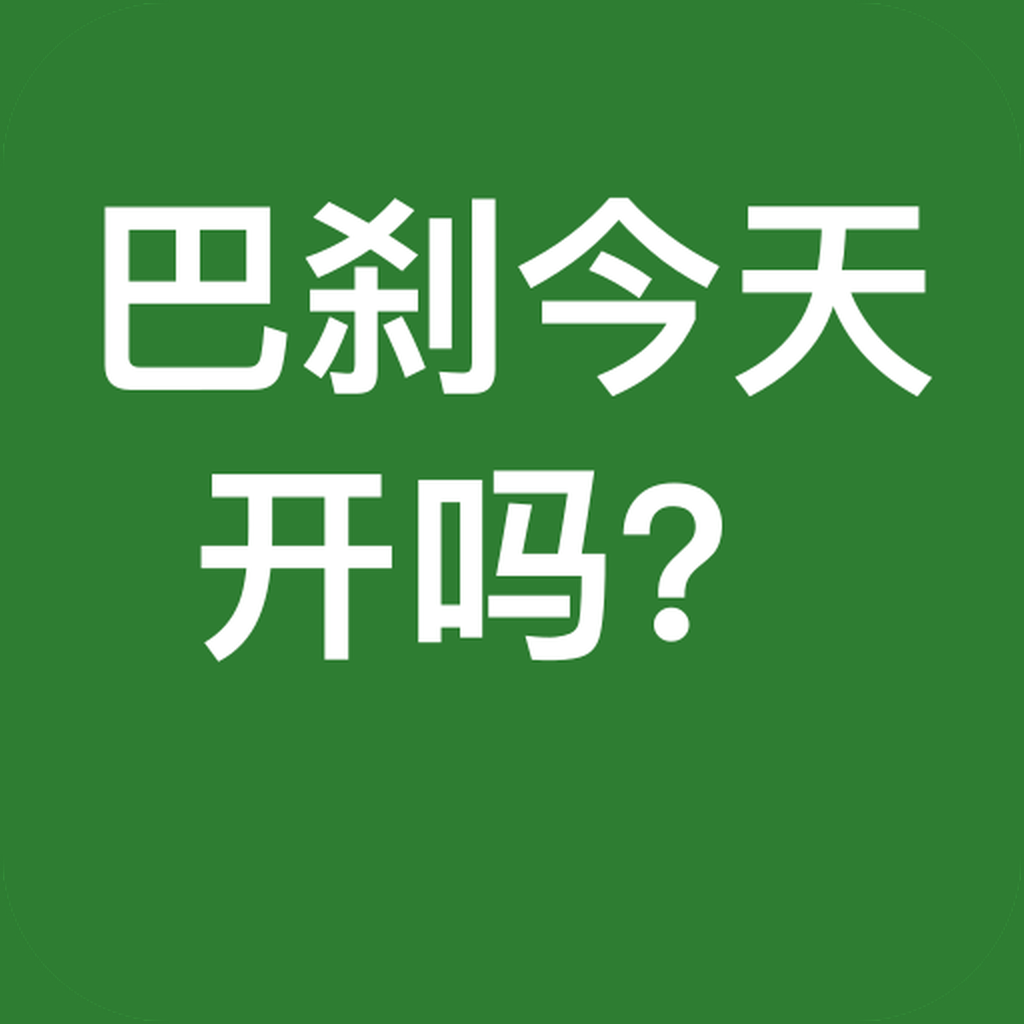
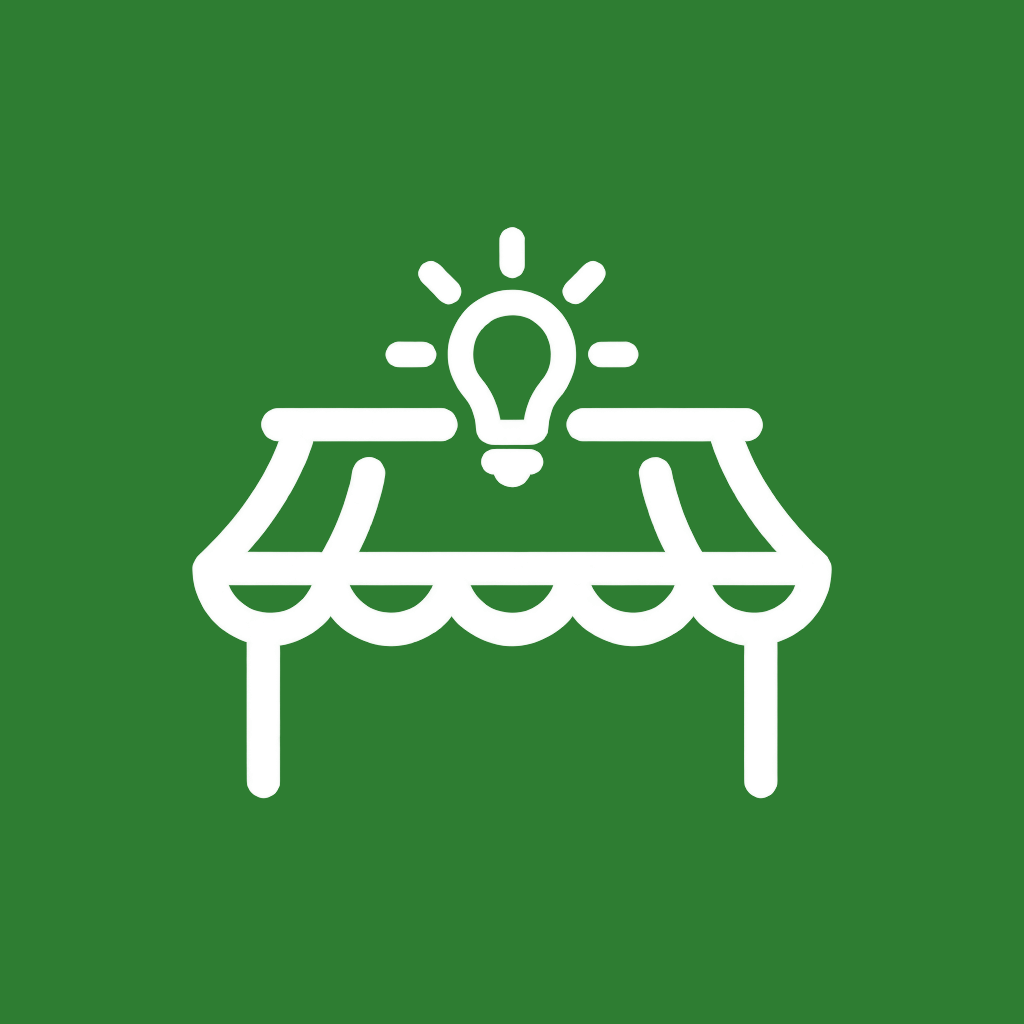
Replace the pre-rebrand wordmark with a market-stall mark
assets/icon.png was still 巴刹今天开吗？ — white Chinese type on green. Commit
fa2ae99 renamed the app to "Open Anot?" precisely because two thirds of the
sites are not markets, yet the icon still led with 巴刹 (pasar). It was also a
single-language wordmark in a bilingual app, illegible at icon size, and
full-bleed with square corners.

The new mark is a stall awning with a lit bulb above it. It reads as the place
rather than a product, which is what makes it cover cooked-food centres and wet
markets alike, and the bulb carries "open" in pure shape — so it survives
Android's themed-icon layer and iOS's tinted variant, both of which discard
colour.

Alongside the art, three things app.json supported but never used: the iOS
light/dark/tinted trio, adaptiveIcon.monochromeImage for Android 13+ themed
icons, and a dark splash background.

The native size sets stay generated. brand/ holds the approved master and the
script that derives every raster in assets/ from one extracted alpha matte;
expo prebuild fans those out to the mipmap densities and the iOS appiconset.

The notification glyph is the one asset drawn by hand rather than derived: at
24dp the line art turns to mush, and a solid bulb above a solid canopy fuses
into head-and-shoulders, so it is the awning alone.

Changed region(s): [[0.0938, 0.1875, 0.9062, 0.7812]]

diff --git a/app.config.ts b/app.config.ts
@@ -27,6 +27,8 @@ export default ({ config }: ConfigContext): ExpoConfig => {
     // Derived, so it cannot drift from `app.json`. A scheme of its own matters: sharing the release
     // one would leave iOS to pick whichever app it liked for a deep link.
     scheme: `${config.scheme}dev`,
+    // Spread, not replaced: `app.json`'s `ios.icon` light/dark/tinted trio and
+    // `android.adaptiveIcon` ride through, so the dev app gets the same icon variants.
     ios: { ...config.ios, bundleIdentifier: id },
     android: { ...config.android, package: id },
   } as ExpoConfig;

diff --git a/brand/make_icons.py b/brand/make_icons.py
@@ -1,0 +1,162 @@
+#!/usr/bin/env python3
+"""Derive the app icon masters from the one approved master.
+
+    python3 brand/make_icons.py brand/icon-master-1024.png assets
+
+Every raster is cut from a single extracted alpha matte, which is what keeps them
+consistent with each other. See brand/README.md for the whole picture; the checks
+in here are what stop a bad master shipping quietly.
+"""
+
+import sys
+from pathlib import Path
+from PIL import Image, ImageChops, ImageDraw
+
+CANVAS = 1024
+GROUND = (30, 104, 43)        # the master's flat ground; luma is exactly 75
+EDGE_FLOOR = 87               # drop anti-aliased pixels dimmer than this, for a crisp edge
+BRAND_GREEN = (46, 125, 50)   # #2e7d32 — the ground the shipped icon uses, not the master's
+BLACK = (0, 0, 0)             # iOS maps the tinted variant's luminance through the tint
+WHITE = (255, 255, 255)
+DILATE_RADIUS = 3             # 27px stroke -> 33px, i.e. 2.6% -> 3.2% of the canvas
+SAFE_CIRCLE_DIA = 625         # Material's 66dp keyline on a 1024px/108dp canvas
+ART = 8                       # alpha above which a pixel counts as art
+HOLE = 64                     # alpha below which a pixel counts as background
+
+
+def corner_radius(src):
+    """Row 0 crosses the white surround, then the green rect: that x is the radius."""
+    for x in range(src.size[0]):
+        r, g, b = src.getpixel((x, 0))
+        if g > 70 and r < 110 and b < 110:
+            return x
+    raise SystemExit('no green rounded rect on row 0 — is this the right master?')
+
+
+def extract_matte(src):
+    """White art -> anti-aliased alpha matte, with the white surround discarded."""
+    # Inset the rect: the anti-aliased green/white boundary would read as art.
+    rect = Image.new('L', src.size, 0)
+    ImageDraw.Draw(rect).rounded_rectangle(
+        [6, 6, src.size[0] - 7, src.size[1] - 7], radius=corner_radius(src), fill=255)
+
+    span = 255 - EDGE_FLOOR
+    matte = src.convert('L').point(
+        lambda v: 0 if v <= EDGE_FLOOR else min(255, int((v - EDGE_FLOOR) / span * 255 + 0.5)))
+    matte.paste(0, mask=ImageChops.invert(rect))
+    return matte
+
+
+def dilate(matte, radius):
+    """Grow by a disc, preserving anti-aliasing (max of shifted copies).
+
+    ImageFilter.MaxFilter is the call a reader expects and is deliberately not it:
+    its kernel is square, which blunts the mark's diagonals differently.
+    """
+    out = matte
+    for dy in range(-radius, radius + 1):
+        for dx in range(-radius, radius + 1):
+            if dx * dx + dy * dy > radius * radius or (dx == 0 and dy == 0):
+                continue
+            out = ImageChops.lighter(out, ImageChops.offset(matte, dx, dy))
+    return out
+
+
+def recentre(matte):
+    """Put the art's bounding box on the canvas centre."""
+    box = matte.point(lambda v: 255 if v > ART else 0).getbbox()
+    out = Image.new('L', matte.size, 0)
+    # paste clips; ImageChops.offset would wrap the art around the edge
+    out.paste(matte, (round(CANVAS / 2 - (box[0] + box[2] - 1) / 2),
+                      round(CANVAS / 2 - (box[1] + box[3] - 1) / 2)))
+    return out
+
+
+def max_radius(matte):
+    """Distance from the canvas centre to the furthest art pixel.
+
+    Not the bounding box's half-diagonal: its corners are empty, because the awning
+    is widest mid-height and the legs are narrow. Using the box would waste ~10% of
+    the Android keyline circle.
+    """
+    art = matte.point(lambda v: 255 if v > ART else 0)
+    w, h = art.size
+    c = CANVAS / 2
+    best = 0.0
+    for y in range(h):
+        box = art.crop((0, y, w, y + 1)).getbbox()
+        if box:  # the row's furthest pixel is at one end of its span
+            dx = max(abs(box[0] - c), abs(box[2] - 1 - c))
+            best = max(best, (dx ** 2 + (y - c) ** 2) ** 0.5)
+    return best
+
+
+def enclosed_area(matte):
+    """Background area the border cannot reach — the mark's counters."""
+    bg = matte.point(lambda v: 255 if v <= HOLE else 0)
+    ImageDraw.floodfill(bg, (0, 0), 0)
+    return bg.histogram()[255]
+
+
+def scaled(matte, factor):
+    """Scale the art about the canvas centre."""
+    n = round(CANVAS * factor)
+    out = Image.new('L', (CANVAS, CANVAS), 0)
+    out.paste(matte.resize((n, n), Image.LANCZOS), ((CANVAS - n) // 2,) * 2)
+    return out
+
+
+def on_alpha(matte):
+    im = Image.new('RGBA', matte.size, WHITE + (0,))
+    im.putalpha(matte)
+    return im
+
+
+def on_ground(rgb, matte):
+    return Image.composite(Image.new('RGB', matte.size, WHITE),
+                           Image.new('RGB', matte.size, rgb), matte)
+
+
+def main():
+    if len(sys.argv) != 3:
+        raise SystemExit(__doc__)
+    src_path, out_dir = Path(sys.argv[1]), Path(sys.argv[2])
+    out_dir.mkdir(parents=True, exist_ok=True)
+
+    src = Image.open(src_path).convert('RGB')
+    if src.size != (CANVAS, CANVAS):
+        raise SystemExit(f'expected {CANVAS}x{CANVAS}, got {src.size}')
+    # The whole pipeline is calibrated on this one colour: EDGE_FLOOR sits 12 above its
+    # luma, so a re-export that shifts the green would silently restroke the mark.
+    ground = src.getpixel((CANVAS // 8, CANVAS // 2))
+    if ground != GROUND:
+        raise SystemExit(f'ground is {ground}, expected {GROUND} — '
+                         'a re-exported master must be re-flattened, see brand/README.md')
+
+    raw = extract_matte(src)
+    before = enclosed_area(raw)
+    grown = dilate(raw, DILATE_RADIUS)
+    after = enclosed_area(grown)
+    # Dilating for legibility must not fill the bulb interior or the valance scallops.
+    # They are ~⅓ of the counter area between them, so losing one shows up well below 0.7.
+    if after < before * 0.7:
+        raise SystemExit(f'dilation closed a counter: enclosed area {before} -> {after}')
+
+    matte = recentre(grown)
+    mr = max_radius(matte)
+    factor = min(1.0, (SAFE_CIRCLE_DIA / 2) / mr)
+    if factor < 0.5:
+        raise SystemExit(f'android scale {factor:.3f} would shrink the mark past legibility')
+
+    on_ground(BRAND_GREEN, matte).save(out_dir / 'icon.png')
+    on_ground(BLACK, matte).save(out_dir / 'icon-tinted.png')
+    on_alpha(matte).save(out_dir / 'mark-white.png')
+    on_alpha(scaled(matte, factor)).save(out_dir / 'adaptive-icon.png')
+
+    print(f'counter area {before} -> {after} after dilating')
+    print(f'max radius {mr:.1f}px -> android scale {factor:.3f}')
+    print(f'wrote 4 masters to {out_dir}/ (notification-icon.png comes from the SVG)')
+
+
+if __name__ == '__main__':
+    main()

diff --git a/brand/README.md b/brand/README.md
@@ -1,0 +1,52 @@
+# brand/
+
+Design sources for the app icon. Edit these, never `assets/` — everything in there is
+derived and gets overwritten. Nothing here ships: `assetBundlePatterns` only decides
+which *resolved* assets get bundled, so what keeps the master out of the app is simply
+that no code `require`s it.
+
+`icon-master-1024.png` is the approved mark: a market-stall awning with a lit bulb
+above it, white line art on green. It reads as *the place* rather than as a product,
+which is what makes it cover cooked-food centres and wet markets alike, and the bulb
+carries the "open" idea in pure shape — so the mark survives Android's themed-icon
+layer and iOS's tinted variant, both of which throw colour away.
+
+The master is flattened to one exact green, `rgb(30, 104, 43)`, whose luma is exactly
+75. `make_icons.py` calibrates its edge threshold on that number and refuses to run on
+anything else, because a re-export that shifted the green by a shade would silently
+restroke the whole mark. Re-flatten a new export before committing it.
+
+## Regenerating `assets/`
+
+```sh
+npm run icons
+```
+
+Needs Pillow and librsvg (`pip install pillow`, `brew install librsvg`) — neither is a
+repo dependency, because this runs by hand when the mark changes, not in CI.
+
+`make_icons.py` extracts one alpha matte from the master and derives all four rasters
+from it, which is what keeps them consistent. Two of the numbers it prints are
+assertions in disguise, and both now exit non-zero rather than warn:
+
+- **enclosed counter area** before and after dilation. The stroke is thickened for
+  legibility, and closing the bulb interior or a valance scallop would collapse this.
+- **android scale**, recomputed from the art's true max pixel radius rather than its
+  bbox corners (which are empty — the awning is widest mid-height and the legs are
+  narrow), so the foreground lands just inside Material's 66dp keyline circle.
+
+The 96px notification glyph is the one asset that is *not* mechanically derived.
+Downscaling the app-icon art turns the line work to mush at 24dp, so
+`notification-icon.svg` is a hand-drawn solid silhouette — and it drops the bulb, for a
+reason worth not rediscovering: a solid bulb above a solid canopy fuses at 24dp and the
+pair reads as head-and-shoulders. Shrinking the bulb far enough to separate just leaves
+a head-shaped dot. The awning alone is unambiguous, and it is the app icon's dominant
+shape, so the two still look like the same app. The deep scallop fringe is what makes
+it a canopy at that size; it is the first thing to lose if the lobes are flattened.
+
+## Where the sizes come from
+
+Only 1024px masters are committed. `expo prebuild` generates the whole native matrix
+from them via `@expo/prebuild-config`: every `mipmap-*dpi` density for Android, and a
+single 1024 per appearance for iOS, which is all Xcode 16+ wants. Do not hand-write
+anything under `ios/` or `android/`; both are generated and gitignored.

diff --git a/README.md b/README.md
@@ -31,9 +31,13 @@ lib/core/     pure closure + reminder logic, no React and no React Native — se
 lib/theme/    light and dark tokens, and the matching react-navigation theme
 lib/store/    app state as an external store read through useSyncExternalStore
 lib/          storage, the NEA fetch, i18n, date formatting, notifications, background refresh
+assets/       fonts, and the icon and splash masters the native build reads — all generated
+brand/        the icon's design sources, and the script that derives assets/ from them
 ```
 
 `lib/core/` is the one directory with no dependency on React Native. Its files import each other with explicit `.ts` specifiers so Node can run them directly; everything outside imports without the extension.
+
+Every icon in `assets/` is derived, so edit `brand/`, never `assets/` — the same rule as `app.json` over the native folders. `npm run icons` regenerates them; `brand/README.md` covers the prerequisites and why each master looks the way it does.
 
 ## Testing
 
